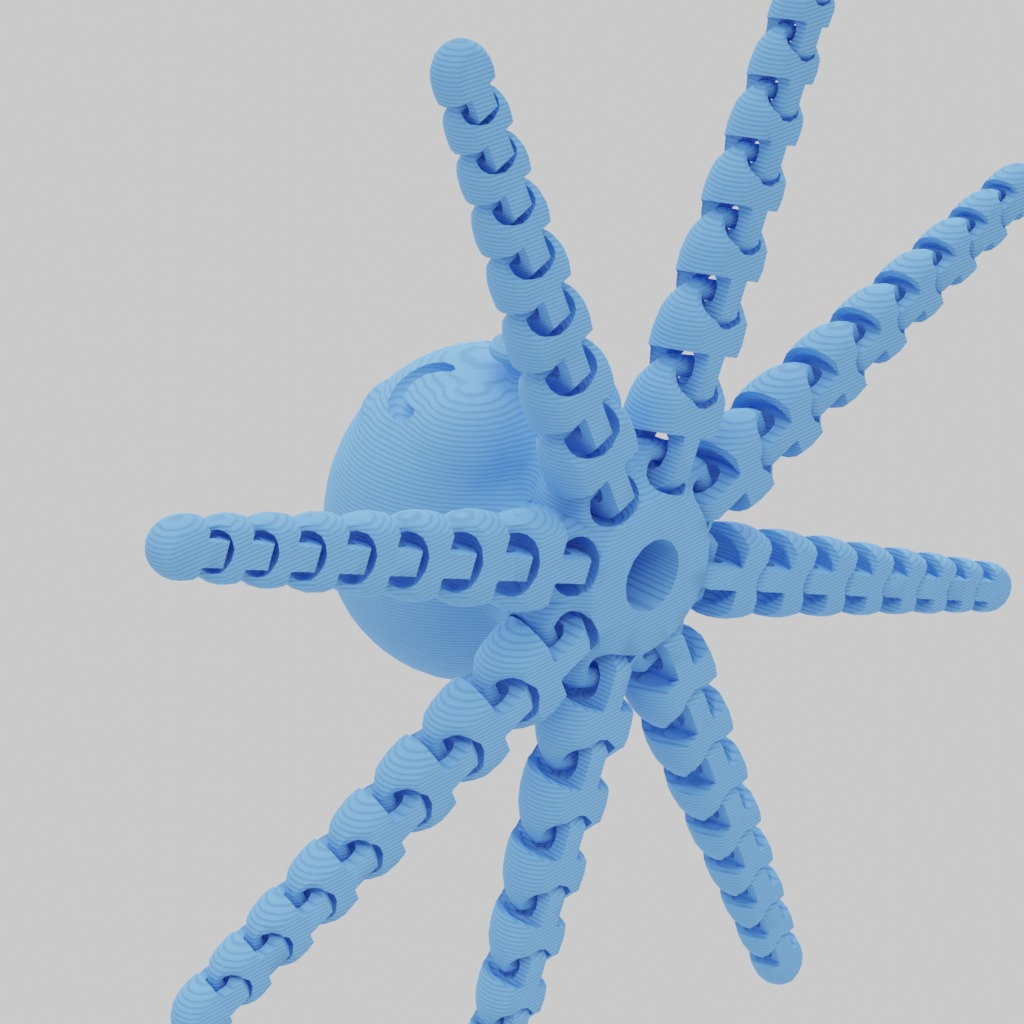
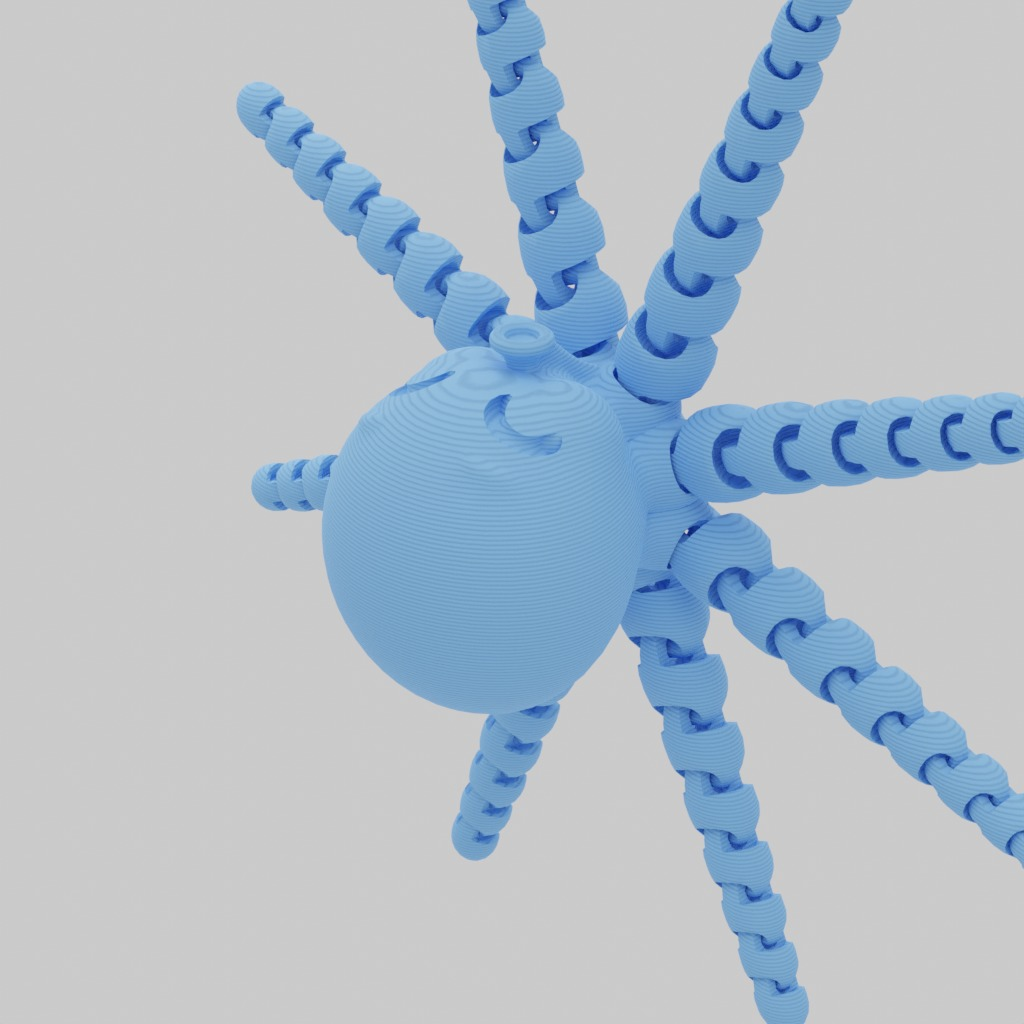
fix: re-render 5 products with corrected Z rotations (+90° each)
rocktopus, cute-octopus, cute-snakey: rot_z 90 → 180
octopus-long-tentacles, flex-slug: rot_z 0 → 90

Also adds verify-orientation.py (Blender bounding-box check) and
verify-and-rerender.sh for the combined verify + render workflow.
Updates batch-render-force.sh with final correct rotations.

Changed region(s): [[0.125, 0.0, 1.0, 1.0]]

diff --git a/scripts/verify-orientation.py b/scripts/verify-orientation.py
@@ -1,0 +1,58 @@
+"""
+Blender orientation verifier.
+Usage: blender --background --python verify-orientation.py -- STL ROT_X ROT_Y ROT_Z
+
+Applies the given rotations, then reports bounding-box dimensions so we can
+confirm the model is standing upright (Z should be the tallest axis).
+"""
+import sys
+import math
+import bpy
+
+# ── parse CLI args ─────────────────────────────────────────────────────────────
+argv = sys.argv
+after_sep = argv[argv.index("--") + 1:] if "--" in argv else []
+if len(after_sep) < 4:
+    print("Usage: blender --background --python verify-orientation.py -- STL ROT_X ROT_Y ROT_Z")
+    sys.exit(1)
+
+stl_path = after_sep[0]
+rot_x    = float(after_sep[1])
+rot_y    = float(after_sep[2])
+rot_z    = float(after_sep[3])
+
+# ── clean scene ───────────────────────────────────────────────────────────────
+bpy.ops.object.select_all(action='SELECT')
+bpy.ops.object.delete(use_global=False)
+
+# ── import STL ────────────────────────────────────────────────────────────────
+bpy.ops.import_mesh.stl(filepath=stl_path)
+obj = bpy.context.selected_objects[0]
+bpy.context.view_layer.objects.active = obj
+
+# ── apply rotations ───────────────────────────────────────────────────────────
+obj.rotation_euler = (
+    math.radians(rot_x),
+    math.radians(rot_y),
+    math.radians(rot_z),
+)
+bpy.ops.object.transform_apply(location=False, rotation=True, scale=True)
+
+# ── bounding box after rotation ───────────────────────────────────────────────
+bbox = [obj.matrix_world @ v.co for v in obj.data.vertices[:1000:1]]  # sample
+xs = [v.x for v in obj.data.vertices]
+ys = [v.y for v in obj.data.vertices]
+zs = [v.z for v in obj.data.vertices]
+
+dx = max(xs) - min(xs)
+dy = max(ys) - min(ys)
+dz = max(zs) - min(zs)
+
+print(f"\n[ORIENTATION CHECK] {stl_path}")
+print(f"  Rotations applied: X={rot_x}, Y={rot_y}, Z={rot_z}")
+print(f"  Bounding box after rotation:")
+print(f"    Width  (X): {dx:.3f}")
+print(f"    Depth  (Y): {dy:.3f}")
+print(f"    Height (Z): {dz:.3f}")
+print(f"  Tallest axis: {'Z (GOOD — model standing upright)' if dz >= dx and dz >= dy else 'NOT Z — model may be lying flat'}")
+print(f"  Z/X ratio: {dz/dx:.2f}  Z/Y ratio: {dz/dy:.2f}")
